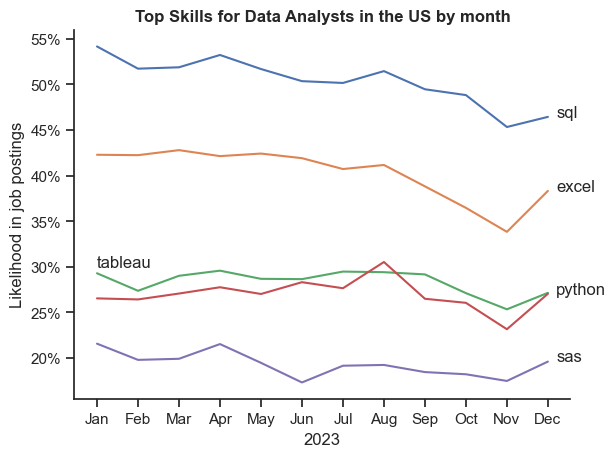
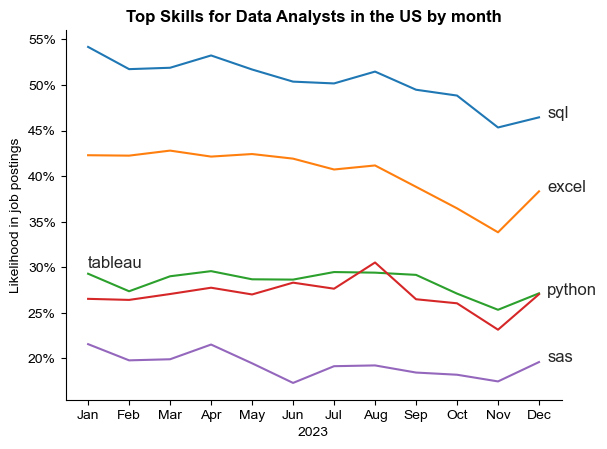
update

diff --git a/README.md b/README.md
@@ -1,6 +1,6 @@
 # The Analysis
 
-## What are the most demanded skills for top 3 most popular data jobs in the US and in Vietnam?
+## 1. What are the most demanded skills for top 3 most popular data jobs in the US and in Vietnam?
 Data jobs in the US are very common. So I want to highlight the most popular jobs and most often required skills for these jobs in this country and have a comparison with the situation in Vietnam. This helps me to focus on skills most important to my job target.
 
 ### Methodology
@@ -57,3 +57,64 @@ Key differences between the two countries:
 * In Vietnam, Power BI is slightly more popular than Tableau for Data Analysts.
 * For Data Engineers, Azure is the 4th most required skill in the US, while in Vietnam, it's Java.
 * For Data Scientists, SAS and Tableau are the 4th and 5th most requested skills in the US, while in Vietnam, Spark and TensorFlow are more in demand.
+
+
+## 2. How are in-demand skills trending for Data Analyst in the US?
+
+### Data visualization
+
+```python
+df_perc_plot = df_percent.iloc[:, :5]
+sns.lineplot(df_perc_plot, dashes=False, legend='full', palette='tab10')
+
+for i in range(5):
+    if df_perc_plot.columns[i] == 'tableau':
+        plt.text(0,30,df_perc_plot.columns[i]) 
+    else:
+        plt.text(11.2,df_perc_plot.iloc[-1,i],df_perc_plot.columns[i])
+
+from matplotlib.ticker import PercentFormatter
+ax = plt.gca()
+ax.yaxis.set_major_formatter(PercentFormatter(decimals=0))
+
+plt.show()
+```
+### Result
+![Trending top skills for Data Analysts in the US](Project\Plot_images\3_trend_of_skill.png)
+
+*Bar graph visualises the trending top skills for data analyst jobs in the US in 2023.*
+
+### Insight
+* SQL remains the most consistently demanded skill throught the year, followed by Excel.However, both skills show a gradual decrease in demand, with this trend being more noticeable in Excel.
+* All 5 skills experienced a significant drop in November, followed by a rise right in the month after
+* Tableau and Python show reletively stable demand with some fluctuations, but remains essential skills for data analysts.
+* SAS while being the 5th most in-demand skills also indicates a gradual downward trend towards the year end.
+
+
+## 4. How well do jobs and skills pay?
+
+### Visualization
+
+```python
+sns.boxplot(df_US_top6, x= 'salary_year_avg', y = 'job_title_short', order=sorted_job_US,vert=False)
+sns.set_theme(style='ticks')
+
+ax=plt.gca()
+ax.xaxis.set_major_formatter(plt.FuncFormatter(lambda x, pos: f'${int(x/1000)}K'))
+plt.xlim(0,600_000)
+```
+### Result
+
+![Salary Distribution in the US](Project\Plot_images\4_Salary_Distribution_US.png)
+![Salary Distribution in Vietnam](Project\Plot_images\4.1_Salary_Distribution_VN.png)
+
+### Insight
+
+In the US:
+* There are significant variations in salary range across different job titles. Senior Data Scientist roles tend to have the highest salary potential, followed closely by Senior Data Enginner.
+* Senior roles, and roles of Data Scientist and Data Engineer present a considerable number of outliers, suggesting that exceptional skills can lead to very high pay in these roles. Data Analyst seems to have a more consistent pay range, with fewer and closer outliers.
+* The median salary also varies depending on level of seniority.
+
+In Vietnam:
+* The market for data job is small. Data Analyst and Data Engineer are the most popular roles, and the salary also increases with the level of seniority. 
+* Like in the US, Data Engineer roles offer a higher range of salary compared to Data analysts. On the contrary, Data Scientist is not common in Vietnam, and has a lower pay range, just slightly higher than for Machine Learning Engineer.
